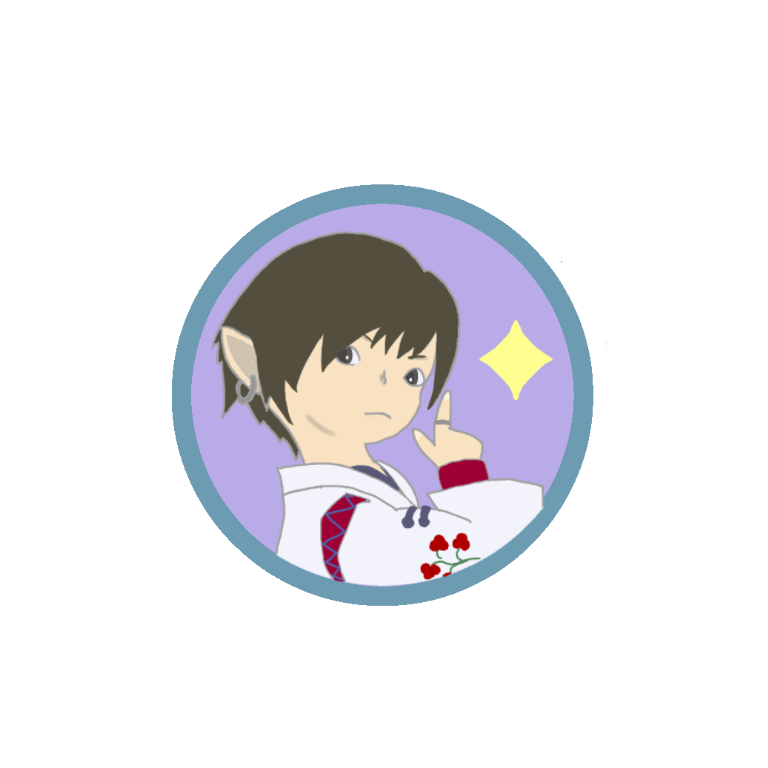
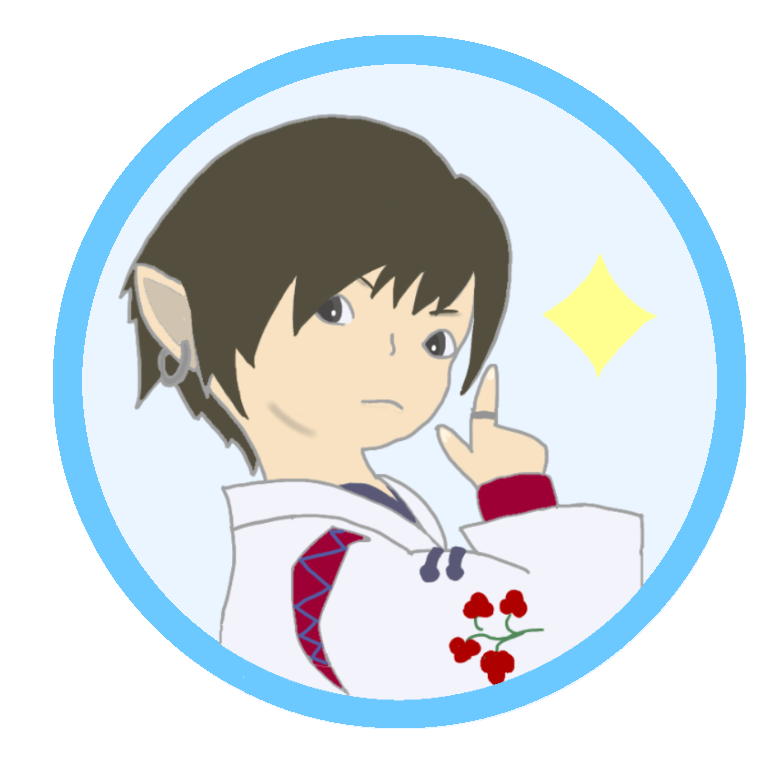
:sparkles:Aboutアイコンの変更

diff --git a/.gatsby/gatsby-browser.tsx b/.gatsby/gatsby-browser.tsx
@@ -1,6 +1,5 @@
 import 'sanitize.css';
 import 'src/styles/static-global.scss';
-
 import { WrapPageElement, WrapRootElement } from '../src/components';
 
 export const wrapRootElement = WrapRootElement;

diff --git a/src/theme/index.tsx b/src/theme/index.tsx
@@ -1,6 +1,6 @@
 export const colors = {
     blue: '#283c5f',
-    lightBlue: '#4aa9a4',
+    lightBlue: '#3ea8ff',
     yellow: '#c3ce5f',
     red: '#c45c66',
     peach: '#faf7d9',
